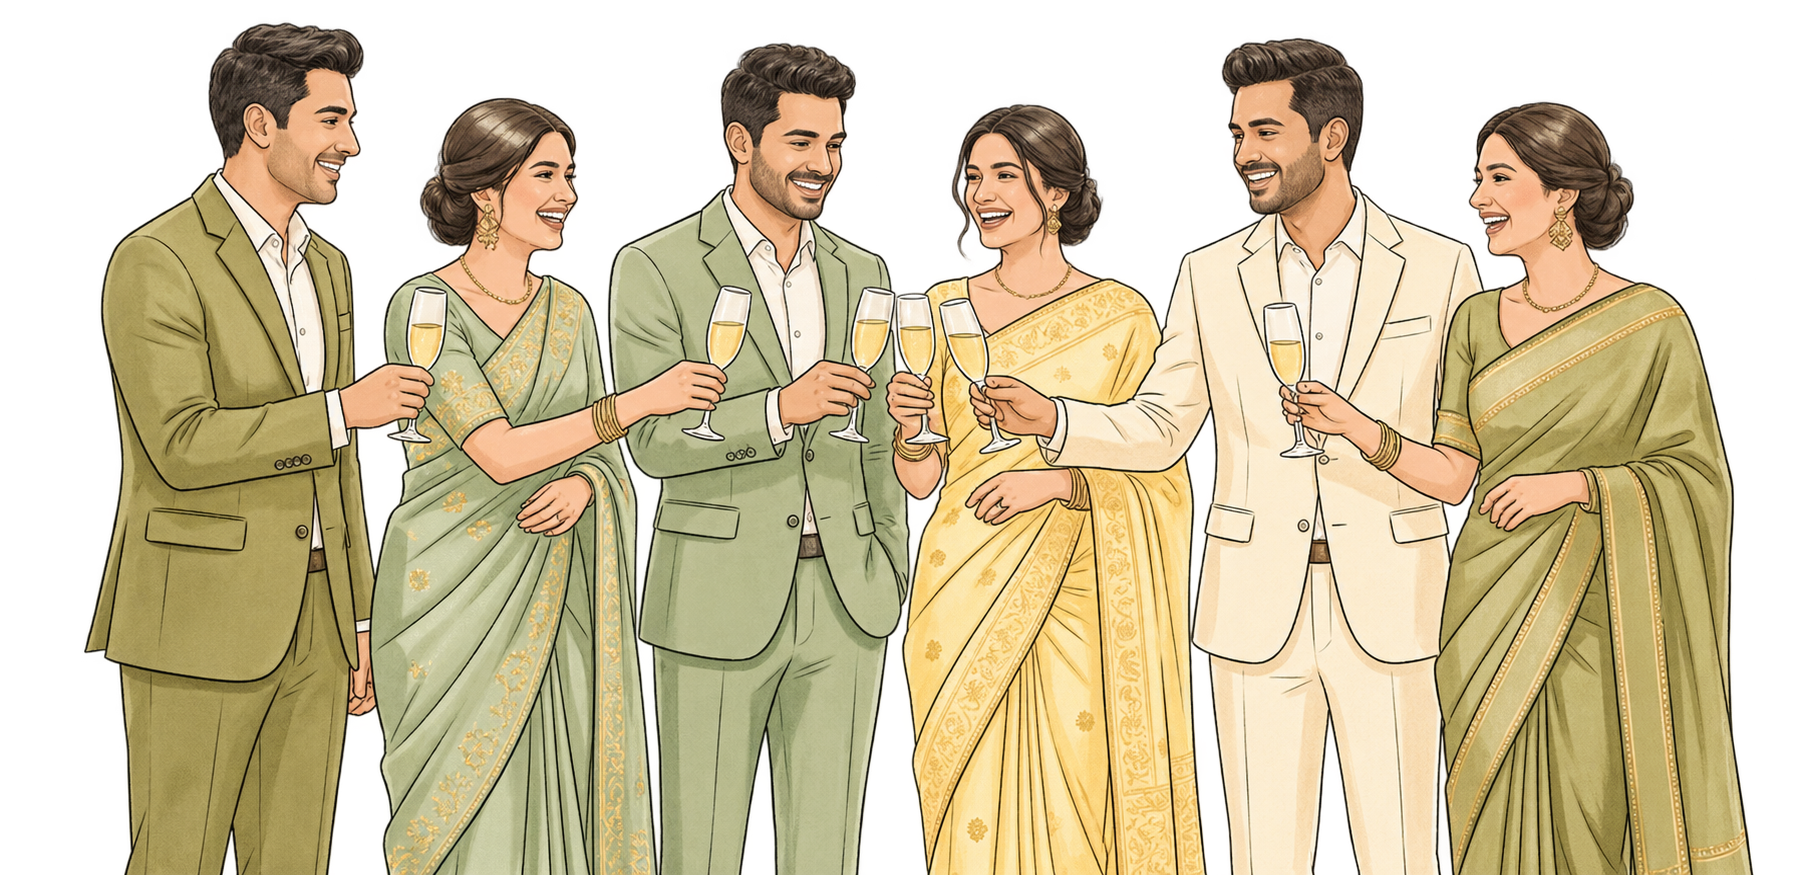
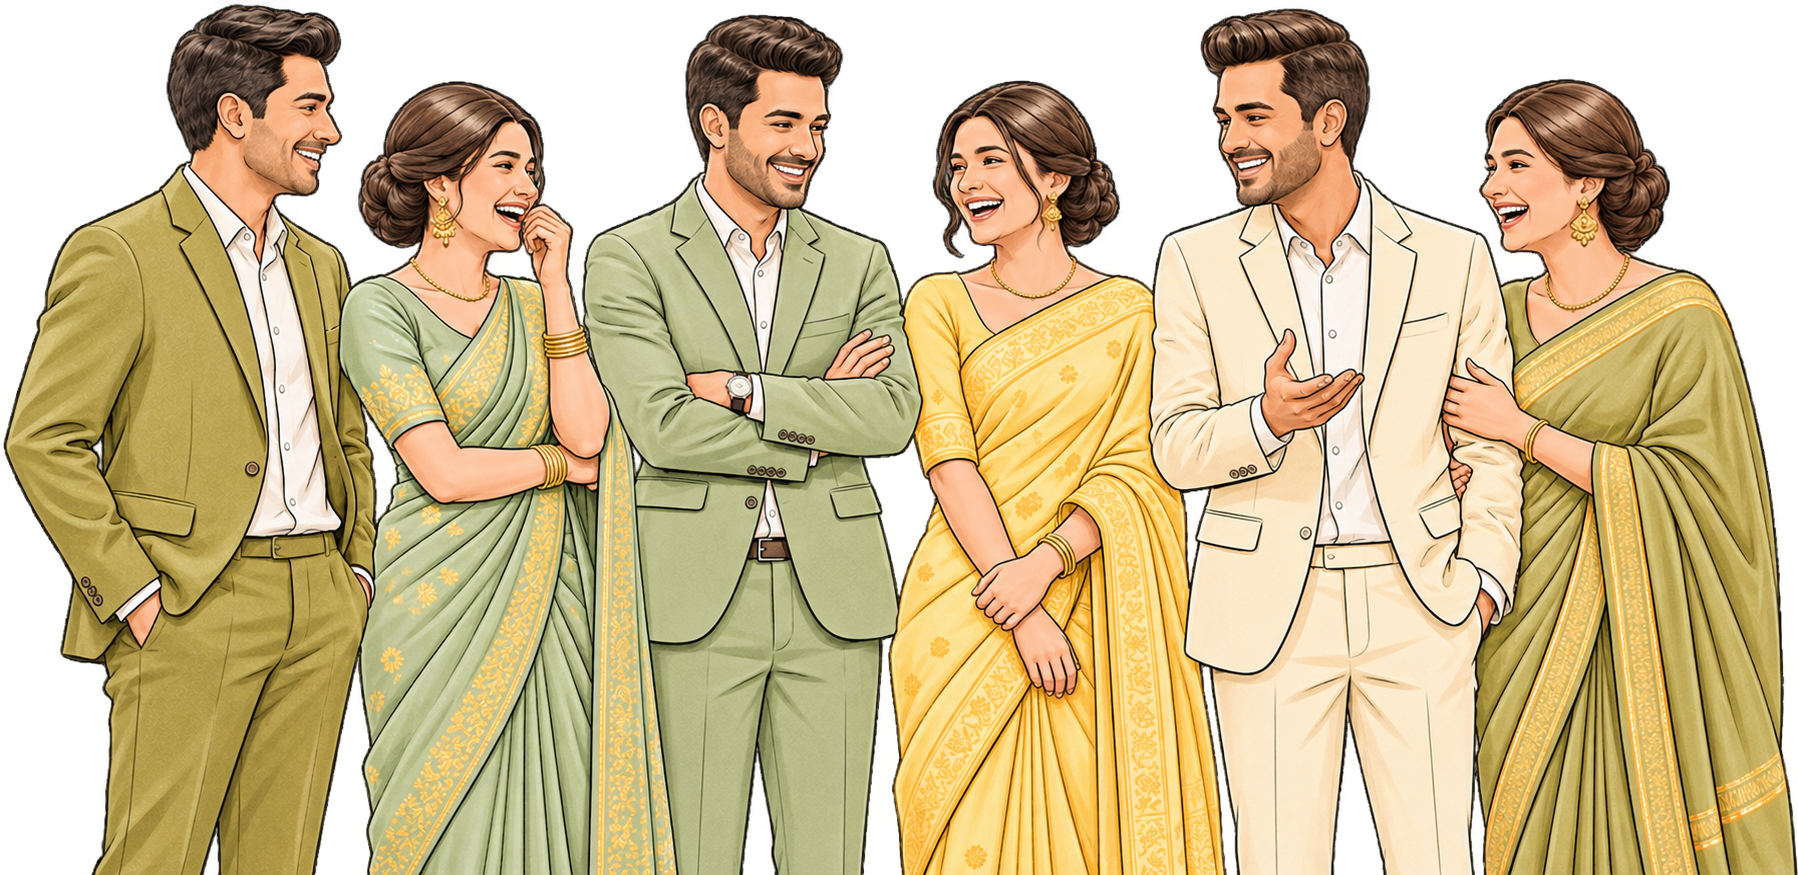
Increase size of dresscode-guests.png illustration

diff --git a/index.html b/index.html
@@ -43,7 +43,7 @@
   <link rel="preload" as="image" href="assets/door-left.jpg?v=7" />
   <link rel="preload" as="image" href="assets/door-right.jpg?v=7" />
   <link rel="preload" as="image" href="assets/couple-embroidery.jpg?v=2" />
-  <link rel="stylesheet" href="styles.css?v=38" />
+  <link rel="stylesheet" href="styles.css?v=39" />
 </head>
 
 <body class="doors-locked">
@@ -271,7 +271,7 @@
             <span class="role-label">BRIDE</span>
             <h3 class="person-name">Dr. Riya Mary Mathew</h3>
             <span class="relation-label">D/O</span>
-            <p class="parents-names">Mr. Mathew Thomas &amp; Mrs. Elsy Mathew</p>
+            <p class="parents-names">Mr. Mathew K Thomas &amp; Mrs. Elsy Mathew</p>
             <p class="family-address">
               Anugraha GNP 116, Mannamoola Road,<br />
               Peroorkada P O, Trivandrum, 695005
@@ -287,7 +287,7 @@
             <p class="parents-names">Mr. George Thomas &amp; Mrs. Jesmol George</p>
             <p class="family-address">
               J J Cottage, Piravanthoor P O,<br />
-              Vazhathoppu, 689696
+              Kollam, 689696
             </p>
           </div>
 
@@ -484,8 +484,8 @@
         </div>
 
         <div class="dresscode-illustration-wrap dress-wedding-wrap">
-          <img src="assets/dress.png?v=2" alt="Wedding dress code attire — pastel yellow suit and sage green gown"
-            class="dress-wedding-img" />
+          <img src="assets/dresscode-guests.png?v=3"
+            alt="Wedding dress code attire — pastel yellow suit and sage green gown" class="dress-wedding-img" />
         </div>
 
         <p class="dresscode-subtitle">
@@ -549,11 +549,7 @@
           </div>
         </div>
 
-        <!-- Hand-embroidered dancing couple below -->
-        <div class="savedate-illustration-wrap">
-          <img src="assets/dancing-couple.png?v=3" alt="Hand-embroidered bride and groom dancing"
-            class="dancing-couple-img" />
-        </div>
+        <!-- Hand-embroidered dancing couple below (optional) -->
       </section>
 
       <!-- SECTION 7: DRESS CODE FOR RECEPTION -->
@@ -564,7 +560,7 @@
         </div>
 
         <div class="dresscode-illustration-wrap">
-          <img src="assets/dresscode-guests.png" alt="Reception guests celebrating in festive attire"
+          <img src="assets/dancing-couple.png" alt="Reception guests celebrating in festive attire"
             class="dresscode-img blend-linen" />
         </div>
 

diff --git a/styles.css b/styles.css
@@ -800,8 +800,8 @@ body.doors-locked #card-stage {
 
 .dress-wedding-wrap {
   width: 100%;
-  max-width: 220px;
-  margin: 6px auto 14px;
+  max-width: 400px;
+  margin: 8px auto 16px;
   background: transparent !important;
   box-shadow: none !important;
   border: none !important;
@@ -810,7 +810,7 @@ body.doors-locked #card-stage {
 .dress-wedding-img {
   display: block;
   width: 100%;
-  max-height: 225px;
+  max-height: 320px;
   height: auto;
   object-fit: contain;
   margin: 0 auto;
